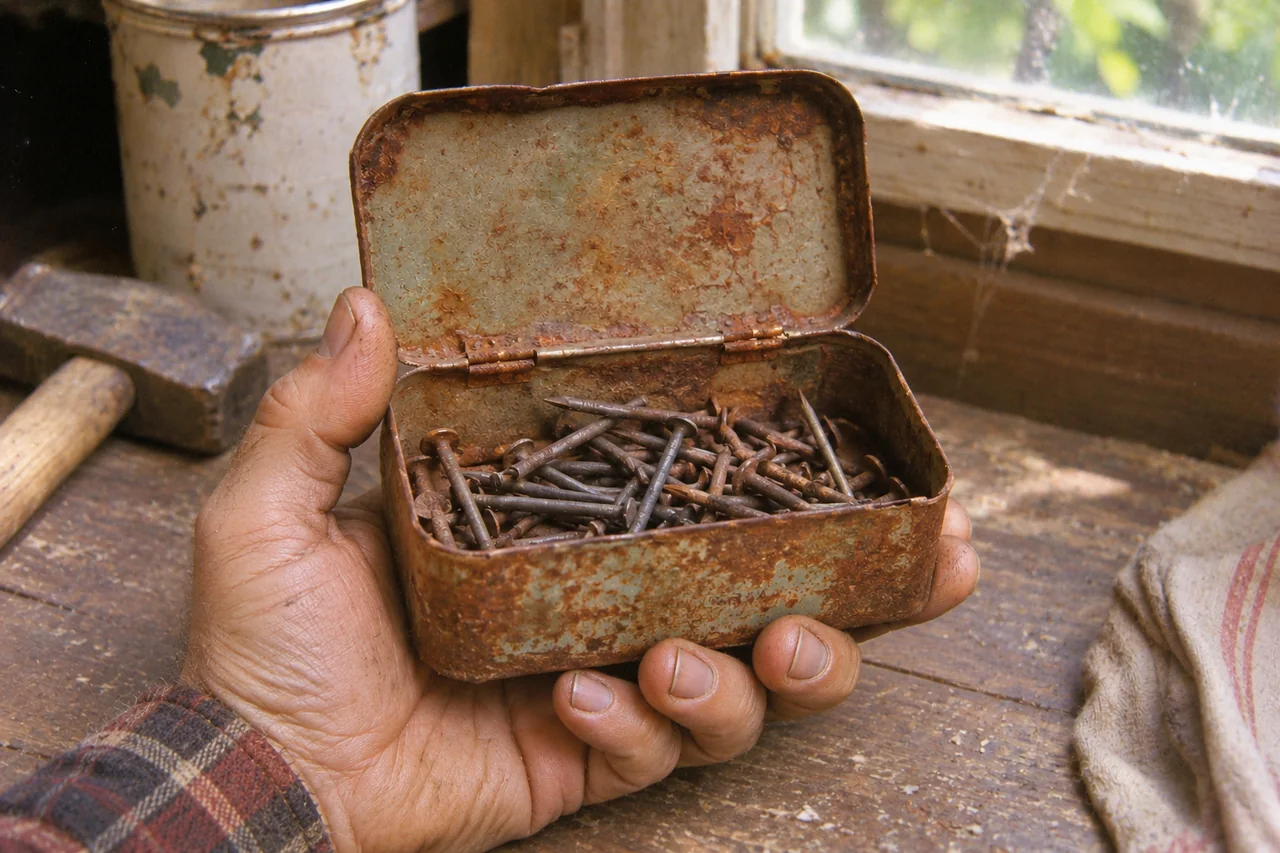
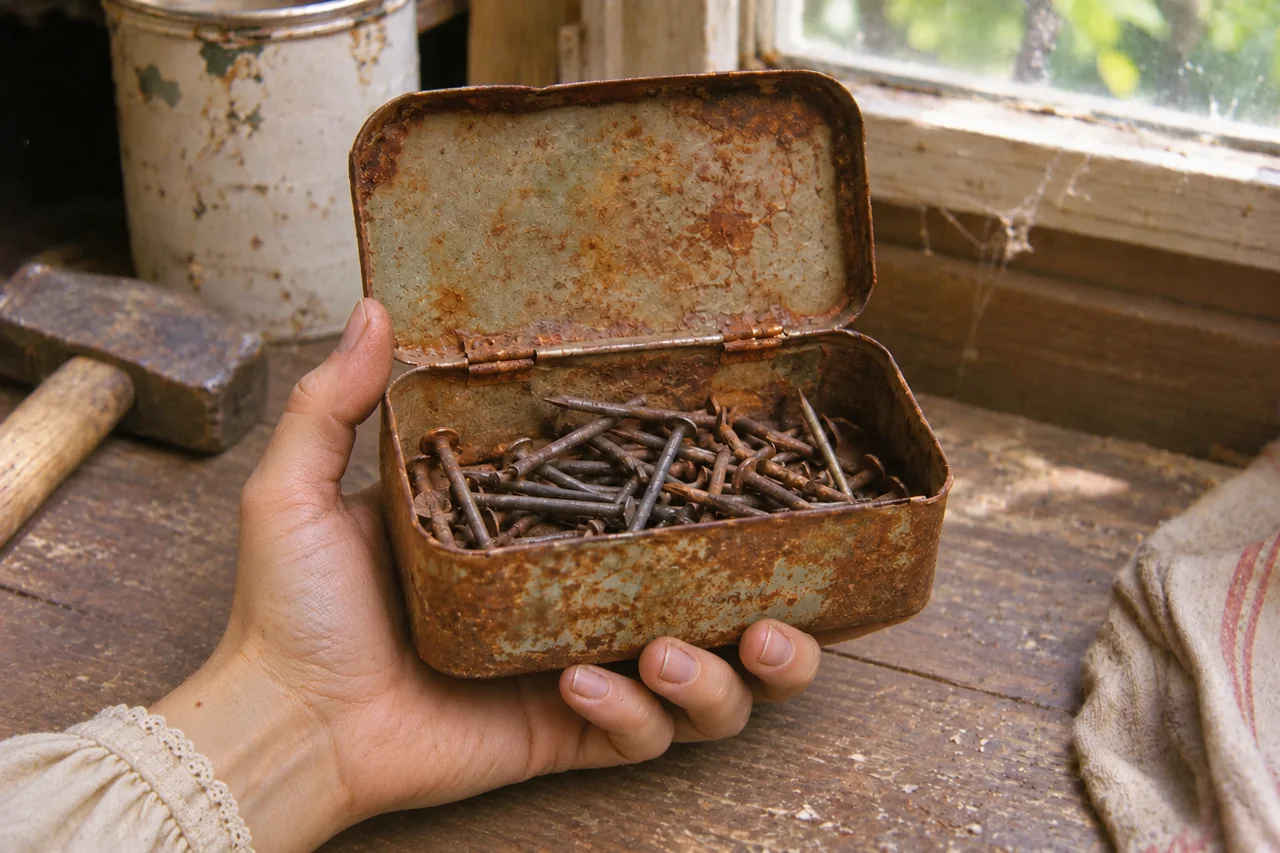
Use equal Intruder portraits and consistent Cottage cards

diff --git a/tests/browser/intruders.spec.ts b/tests/browser/intruders.spec.ts
@@ -18,8 +18,13 @@ test('Intruders worked example, direct portrait activation, loaded artwork and f
   await expect(roster.getByRole('button',{name:'Trish',exact:true})).toHaveAttribute('data-active','true');
   await roster.getByRole('button',{name:'Baghead',exact:true}).click();
   await expect(roster.getByRole('button',{name:'Baghead',exact:true})).toHaveAttribute('data-active','true');
-  expect(await roster.getByRole('button',{name:'Baghead',exact:true}).evaluate(button=>button.getBoundingClientRect().height))
-    .toBeGreaterThan(await roster.getByRole('button',{name:'Trish',exact:true}).evaluate(button=>button.getBoundingClientRect().height));
+  const portraits=roster.locator('.intruder-portraits > button');
+  expect(await portraits.evaluateAll(buttons=>buttons.map(button=>button.getAttribute('aria-label')))).toEqual(['Trish','Baghead','Zeke']);
+  const boxes=await portraits.evaluateAll(buttons=>buttons.map(button=>{const box=button.getBoundingClientRect();return {top:box.top,width:box.width};}));
+  expect(new Set(boxes.map(box=>box.top)).size).toBe(1);
+  expect(Math.max(...boxes.map(box=>box.width))-Math.min(...boxes.map(box=>box.width))).toBeLessThan(1);
+  await expect(roster.getByRole('button',{name:'Baghead',exact:true}).locator('img')).toHaveCSS('filter','none');
+  await expect(roster.getByRole('button',{name:'Trish',exact:true}).locator('img')).toHaveCSS('filter',/grayscale\(1\)/);
   await roster.getByRole('button',{name:'Trish',exact:true}).click();
   await roster.getByRole('button',{name:'Edit Trish health'}).click();
   await roster.getByRole('spinbutton',{name:'Set Trish health'}).fill('1');
@@ -55,6 +60,7 @@ test('Intruders worked example, direct portrait activation, loaded artwork and f
   await expect(panel.getByRole('region',{name:'Dark Power selection',exact:true})).toContainText('Won’t Stay Down');
   await expect(remember.getByRole('combobox',{name:'Dark Power card'})).toHaveCount(0);
   await expect(roster.getByText('All Killers Active')).toBeVisible();
+  for(const name of ['Trish','Baghead','Zeke'])await expect(roster.getByRole('button',{name,exact:true}).locator('img')).toHaveCSS('filter','none');
   await expect(roster.getByRole('button',{name:'Shift Active Killer up'})).toHaveCount(0);
   for(const [width,height] of info.project.name==='mobile'?[[390,844],[320,568]]:[[1280,640],[1366,768],[1440,900]]){
     await page.setViewportSize({width,height});

diff --git a/src/components/play/IntruderControls.tsx b/src/components/play/IntruderControls.tsx
@@ -38,7 +38,6 @@ export function IntruderRoster({events,onEvent}:{events:PlayEvent[];onEvent:Cont
   const mode=intruderMode(entries);
   const focusToken=focus?intruderFigure(state,focus).token:undefined;
   const who=(mode==='all'||focusToken==='pending'?focus??active:active)??'trish';
-  const hero=(mode==='all'?focus??active:active??focus)??'trish';
   const person=INTRUDER_ROSTER.find(p=>p.id===who)!;
   const {health,token}=intruderFigure(state,who);
   const epic=intruderEpicReady(state,entries);
@@ -48,17 +47,16 @@ export function IntruderRoster({events,onEvent}:{events:PlayEvent[];onEvent:Cont
   });
   const resolve=(command:Command)=>{if(send(command))setInput(undefined);};
   const zero:Command={command:token==='white'?(epic?'epic':'dead'):'down',who};
-  const portraits=[INTRUDER_ROSTER.find(p=>p.id===hero)!,...INTRUDER_ROSTER.filter(p=>p.id!==hero)];
   return (
     <div className="play-state play-state--intruders" role="group" aria-label="Intruder Killer Health tracker">
       <div className="intruder-portraits">
-        {portraits.map(({id,name})=>{
+        {INTRUDER_ROSTER.map(({id,name})=>{
           const figure=intruderFigure(state,id);
           const out=figure.token==='dead'||figure.token==='pending';
           const isActive=mode==='all'?!out&&(figure.health!==undefined||figure.token!==undefined):active===id;
           const fate=figure.token==='pending'?'Down':figure.token==='dead'?'Dead':`${figure.health??'?'} HP`;
           return <button type="button" key={id} aria-pressed={isActive} aria-label={name}
-            aria-description={`${fate}${isActive?', Active':''}`} data-active={isActive} data-out={out} disabled={figure.token==='dead'}
+            aria-description={`${fate}${isActive?', Active':''}`} data-active={isActive} data-intruder={id} data-out={out} disabled={figure.token==='dead'}
             onClick={()=>{
               if(!out&&mode!=='all'&&id!==active&&!send({command:'activate',who:id}))return;
               setFocus(id);

diff --git a/src/styles/play-wingard.css b/src/styles/play-wingard.css
@@ -29,8 +29,8 @@
   .wingard-heading:has(.wingard-recipe-links) { flex-wrap:wrap; }
   .wingard-recipe-links { justify-content:flex-start; }
 }
-.wingard-recorded { display:grid; grid-template-columns:repeat(auto-fill,minmax(min(100%,360px),1fr)); gap:.75rem; margin-top:.65rem; }
-.wingard-recipe-card { min-width:0; width:100%; max-width:465px; }
+.wingard-recorded,.wingard-events { display:grid; grid-template-columns:repeat(auto-fill,minmax(min(100%,380px),1fr)); gap:.75rem; margin-top:.65rem; align-items:start; }
+.wingard-recipe-card,.wingard-events > article { min-width:0; width:100%; }
 .wingard-controls .wingard-recipe-card .play-illustrated-tile:disabled,
 .wingard-controls .wingard-person .play-illustrated-tile:disabled { opacity:1; }
 .wingard-controls .wingard-recipe-card .play-tile-caption { bottom:26px; }
@@ -39,9 +39,10 @@
 .wingard-controls .wingard-craft-action { font-size:.82rem; }
 .wingard-space-choices { max-height:155px; overflow:auto; align-content:start; }
 .wingard-controls .wingard-recipes { align-items:start; }
-.wingard-controls .wingard-person[data-state=present] { grid-column:1/-1; width:100%; max-width:465px; }
 .wingard-controls .wingard-person:is([data-state=present],[data-state=saved],[data-state=killed]) .play-module-art { filter:none; }
 .wingard-controls .wingard-person:is([data-state=unrecorded],[data-state=left]) .play-module-art { filter:grayscale(1) brightness(.55); }
 .wingard-scooter { position:relative; }
 .wingard-scooter-clear { position:absolute; top:0; right:0; padding:0 .5rem; background:#150f0dd9; }
 .play-module-content .wingard-controls .module-control-tile > img[src*="slingshot-blueprint"] { background:#102631; }
+
+.play-module-content .wingard-controls .wingard-events .module-control-tile { height:auto; min-height:82px; aspect-ratio:16/9; }

diff --git a/src/components/play/WingardControls.tsx b/src/components/play/WingardControls.tsx
@@ -129,9 +129,9 @@ export function WingardControls({events, onEvent, blocked}:ControlsProps) {
     </section>
     <section aria-label="Cottage events">
       <div className="wingard-heading"><h3>Events</h3><button type="button" className="module-quiet-link" aria-expanded={showEvents} onClick={()=>setShowEvents(!showEvents)}>{showEvents?'Hide unrecorded':'Record an event'}</button></div>
-      <div className="wingard-recipes">
+      <div className="wingard-events">
         {people.map(person=><CharacterControl key={person.id} name={person.name} className={showEvents||state.people[person.id]?'wingard-person':'hidden'}
-          art={wingardArt(state.people[person.id]==='saved'||state.people[person.id]==='killed'?`${person.id}-${state.people[person.id]}`:person.id,state.people[person.id]!=='present')} present="present" states={outcomes} value={state.people[person.id]} showRules={false} showStatusEditor={false} allowOutcomeCorrections
+          art={wingardArt(state.people[person.id]==='saved'||state.people[person.id]==='killed'?`${person.id}-${state.people[person.id]}`:person.id)} present="present" states={outcomes} value={state.people[person.id]} showRules={false} showStatusEditor={false} allowOutcomeCorrections
           outcomes={['saved','killed','left']}
           onChange={value=>commit({command:'person',id:person.id,value:value as typeof outcomes[number]['value'] | null})}/>)}
         <EventControl name="Getting Resourceful" value={state.resourceful?'active':undefined} art={wingardArt('resourceful',true)}

diff --git a/tests/browser/wingard-cottage.spec.ts b/tests/browser/wingard-cottage.spec.ts
@@ -89,13 +89,17 @@ test('Wingard legacy state, retry, Undo, live Events and death replay',async({pa
   const neighbor=panel.locator('.wingard-person').filter({hasText:'Neighbor'});
   const inactiveWidth=(await neighbor.boundingBox())!.width;
   await panel.getByRole('button',{name:'Add Neighbor',exact:true}).click();
-  expect((await neighbor.boundingBox())!.width).toBeGreaterThan(inactiveWidth);
+  expect((await neighbor.boundingBox())!.width).toBeCloseTo(inactiveWidth);
   await expect(neighbor.locator('img')).toHaveCSS('filter','none');
   await panel.getByRole('button',{name:/Boat.*At the lake/}).click();
   await statusPick(page,panel.getByRole('combobox',{name:'Boat party size including the Neighbor'}),'4');
   await panel.getByRole('button',{name:'Record boat escape',exact:true}).click();
   await expect(panel.getByRole('button',{name:/Boat escape/})).toContainText('4 saved');
   await expect(neighbor.locator('img')).toHaveAttribute('src',/neighbor-saved/);
+  expect((await neighbor.boundingBox())!.width).toBeCloseTo(inactiveWidth);
+  const outsider=panel.locator('.wingard-person').filter({hasText:'Outsider'});
+  expect((await outsider.boundingBox())!.width).toBeCloseTo(inactiveWidth);
+  await panel.screenshot({path:info.outputPath('wingard-event-grid.jpg'),animations:'disabled',style:'.app-footer{visibility:hidden}'});
   await expect(alarm).toContainText('1/3 blocked');
   await page.reload();
   await page.getByRole('button',{name:'RESUME GAME',exact:true}).click();

diff --git a/src/styles/play-intruders.css b/src/styles/play-intruders.css
@@ -6,8 +6,7 @@
 }
 .intruder-portraits {
   display: grid;
-  grid-template-columns: repeat(2,minmax(0,1fr));
-  grid-template-rows: repeat(2,minmax(0,1fr));
+  grid-template-columns: repeat(3,minmax(0,1fr));
   min-height: 164px;
   gap: 2px;
   flex: 1 0 auto;
@@ -24,9 +23,10 @@
   color: #f5e8d5;
   text-align: left;
 }
-.intruder-portraits button:first-child { grid-row: span 2; }
 .intruder-portraits button:focus-visible { outline: 2px solid #e2c592; outline-offset: -2px; }
-.intruder-portraits button[data-out=true] img { filter: grayscale(.85) brightness(.55); }
+.intruder-portraits button[data-active=false] img { filter: grayscale(1) brightness(.55); }
+.intruder-portraits button[data-active=true] img { filter: none; }
+.intruder-portraits button[data-out=true] img { filter: grayscale(1) brightness(.4); }
 .intruder-portraits img {
   position: absolute;
   z-index: -2;
@@ -36,7 +36,9 @@
   object-fit: cover;
   object-position: center 33%;
 }
-.intruder-portraits button:first-child img { object-position: center 28%; }
+.intruder-portraits [data-intruder=trish] img { object-position: 50% 21%; }
+.intruder-portraits [data-intruder=baghead] img { object-position: 52% 30%; }
+.intruder-portraits [data-intruder=zeke] img { object-position: 49% 29%; }
 .intruder-portraits button::before {
   content: '';
   position: absolute;

diff --git a/docs/imports/wingard-cottage.md b/docs/imports/wingard-cottage.md
@@ -100,3 +100,10 @@ The frontend and the Edge functions that consume the changed shared Play graph n
 ### Play presentation follow-up
 
 The Workbench has separate links for recording recipes and crafted items. Both use a picture picker. Recorded cards keep their wide size when crafted. The card face shows and updates limited uses. Trap placement remains an explicit spatial observation. Supply art distinguishes carried and available materials. Active people get wide color portraits, with separate saved and non-graphic killed images. The Scooter and Getting Resourceful share the compact event tile proportions. The photo manifest now covers 51 sources and 102 bounded derivatives.
+
+
+### Consistent large event cards
+
+Event and recipe cards use the same responsive grid sizing. People keep their card size across unrecorded, present, saved, killed and left states. Full-size portrait assets serve every state. All four held-material photographs were edited to show a woman carrying the material, with faces excluded for mixed Final Girl casting. Source and edit-reference digests are recorded in the photo manifest.
+
+The follow-up passed the 14 focused desktop/mobile Cottage and Intruder browser journeys, typecheck, asset checks and production build. Actual screenshot review covered the five approved viewport sizes and the large Event grid. The large cards keep their columns when outcomes change.

diff --git a/docs/imports/the-intruders.md b/docs/imports/the-intruders.md
@@ -85,3 +85,8 @@ Open physical-rule boundary: the supplied pages demonstrate the standard single 
 ### Play tracker follow-up
 
 Tap a living portrait to make that Intruder active. The active portrait occupies half the image area, and the other two share the second column. Health uses the standard tracker controls. Reducing an Intruder to zero exposes any necessary outcome choice in that moment. An already downed portrait can reopen its pending result. Release the Beast retains all-living-active behavior and lets the player choose whose health to edit.
+
+
+### Fixed portrait row
+
+The three Intruders keep their canonical order in equal columns. Only active living Intruders are in color, including all eligible figures under Release the Beast. Inactive and downed figures are grey. Per-person focal positions preserve the masks in the narrow crops. The health editor continues to follow the chosen figure in all-active mode.

diff --git a/src/assets/play/photos/wingard/README.md b/src/assets/play/photos/wingard/README.md
@@ -7,7 +7,7 @@
 | Surface | Photographs |
 | --- | --- |
 | Location header | Cottage exterior across the lake, dusk |
-| Supplies | Garage tools, shed nails, boathouse rope and outdoor wood. Each has a distinct carried photograph. |
+| Supplies | Garage tools, shed nails, boathouse rope and outdoor wood. Each has a distinct carried photograph showing a woman in a cream shirt, with her face outside the frame. |
 | Workbench | Ten crafted-item stills and ten individual cyanotype recipe prints. The Spear, Slingshot and Sawed-off Shotgun prints depict representative components or a sporting case. |
 | Placed traps | Rope on porch boards and the plank at a shed threshold |
 | Ongoing events | Same Home Security latch and indicator off and on, matching Scooter at rest and outdoors ready to move, lake Boat, three role portraits with separate saved and non-graphic killed variants, and the Resourceful workbench |
